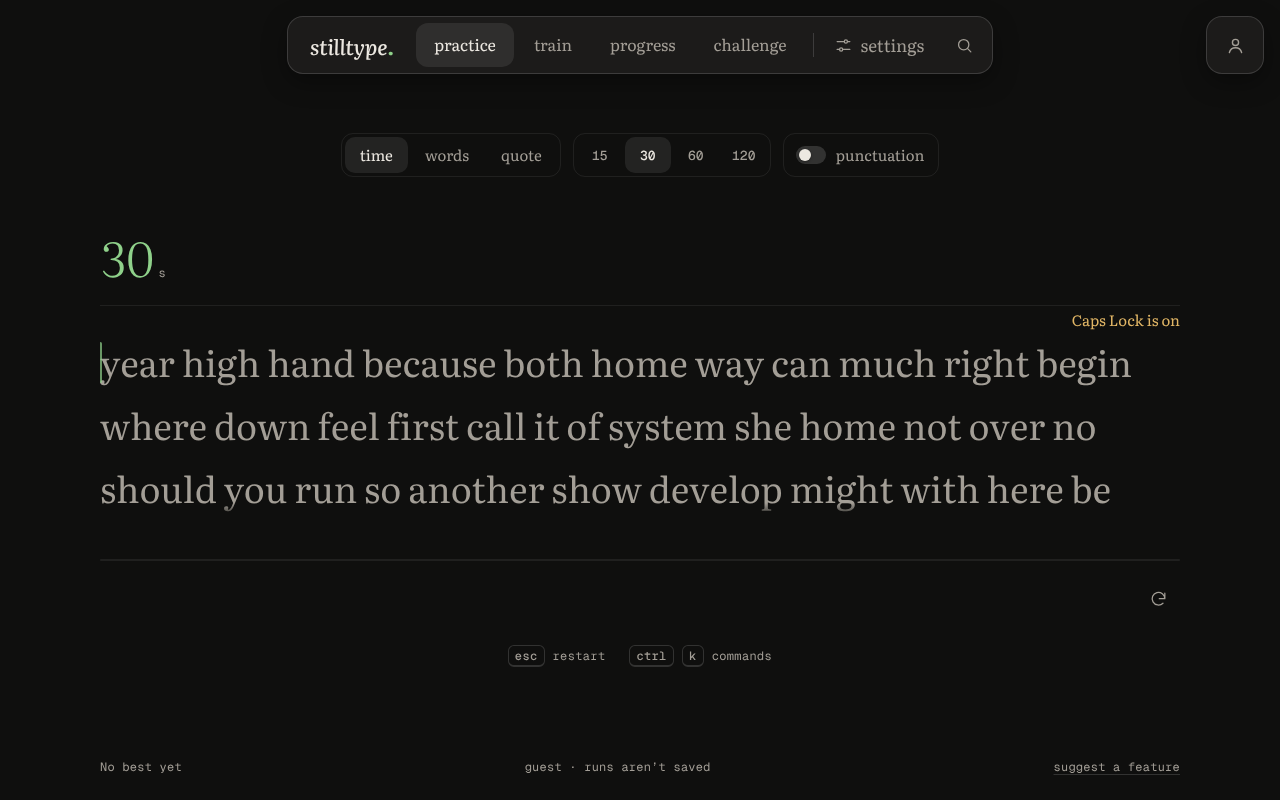
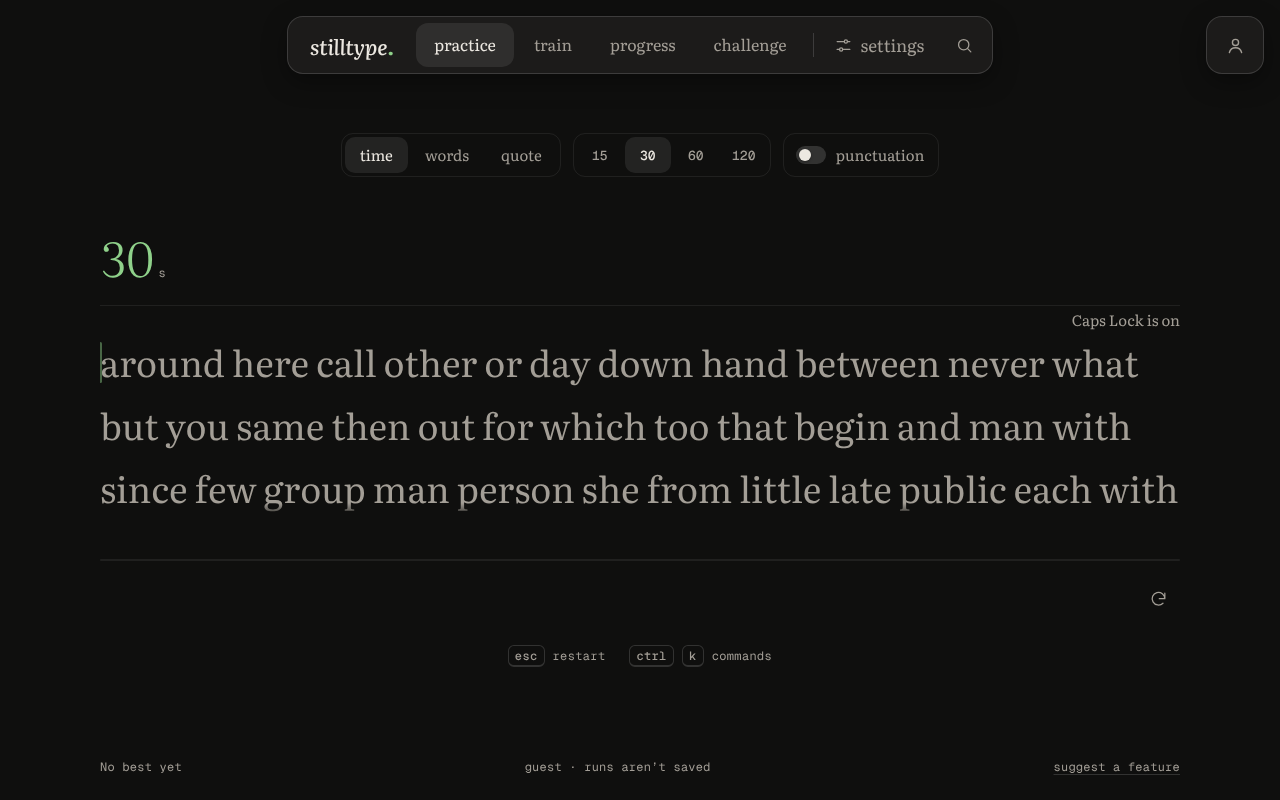
Set the Caps Lock warning in the muted text colour
Amber is reserved for interrupted runs and mixed comparisons.

Claude-Session: https://claude.ai/code/session_01SaBNo9RHRaTR8cCUjK1iLD

Changed region(s): [[0.0625, 0.4375, 0.9062, 0.5625], [0.0938, 0.5938, 0.9375, 0.6562], [0.8438, 0.375, 0.9062, 0.4062]]

diff --git a/src/styles.css b/src/styles.css
@@ -892,7 +892,7 @@ body[data-running="true"] :is(.dock, .corner, .practice-controls, .quote-options
   top: calc(100% + var(--space-1));
   right: 0;
   margin: 0;
-  color: var(--warning);
+  color: var(--muted);
   font: var(--text-small)/1.5 var(--font-serif);
   white-space: nowrap;
   pointer-events: none;
